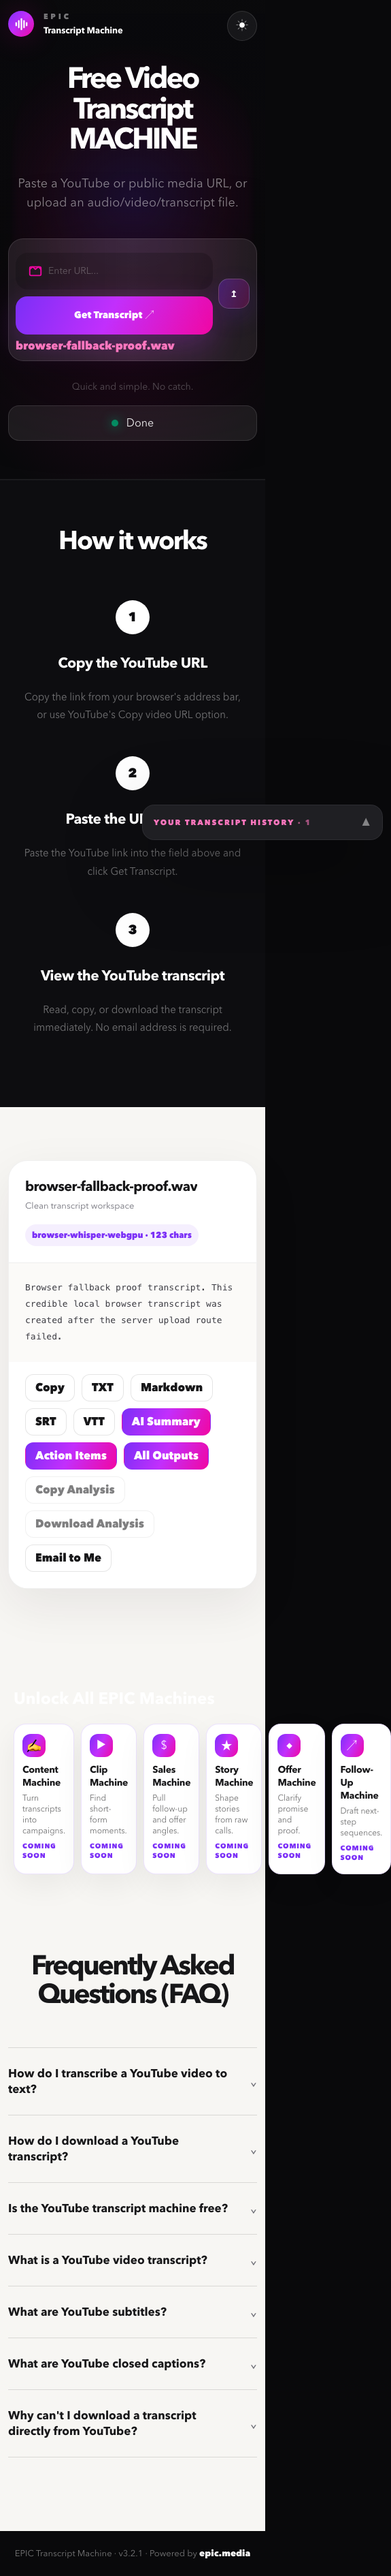
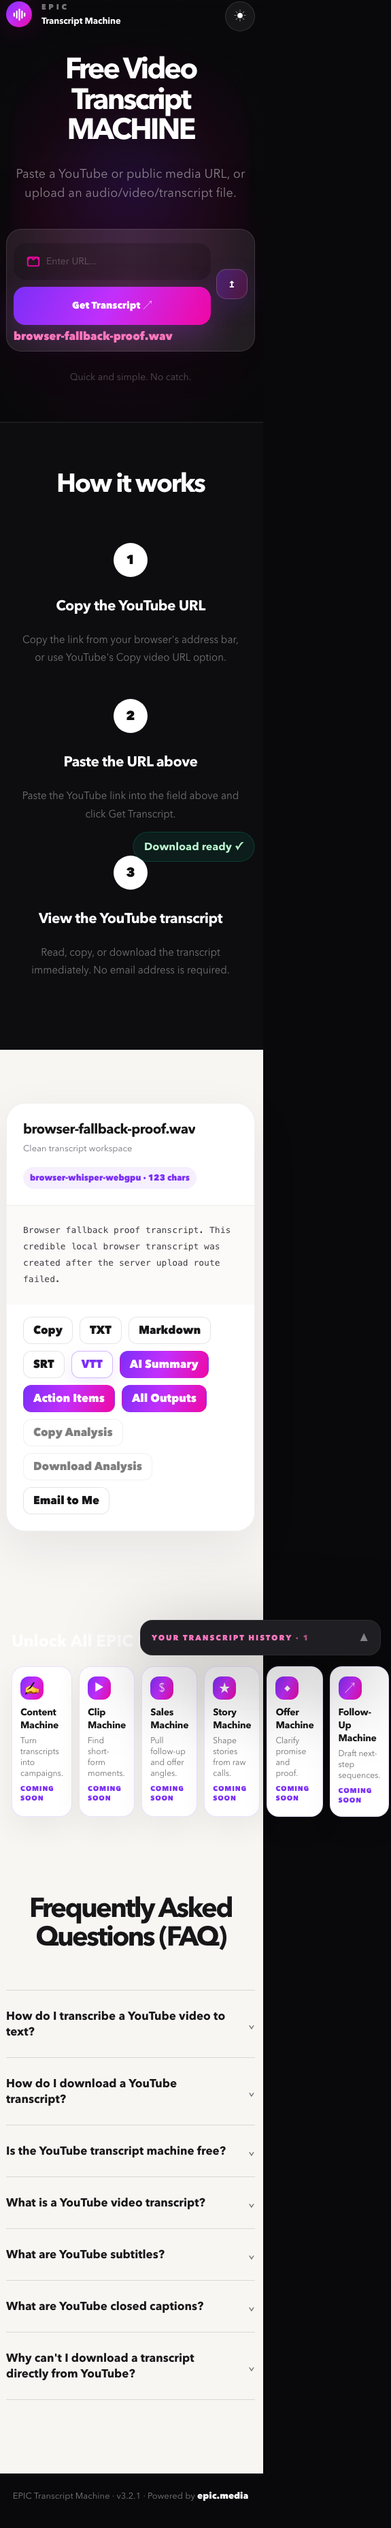
Verify browser fallback downloads

Changed region(s): [[0.0, 0.0, 1.0, 0.9916], [0.0, 0.0, 0.0887, 0.031]]

diff --git a/static/index.html b/static/index.html
@@ -540,6 +540,16 @@
     return h > 0 ? `${h}:${String(m).padStart(2,'0')}:${String(s).padStart(2,'0')}` : `${m}:${String(s).padStart(2,'0')}`;
   }
 
+  function formatSubtitleDuration(secs, decimal) {
+    secs = Math.max(0, Number(secs || 0));
+    const whole = Math.floor(secs);
+    const ms = Math.round((secs - whole) * 1000);
+    const h = Math.floor(whole / 3600);
+    const m = Math.floor((whole % 3600) / 60);
+    const s = whole % 60;
+    return `${String(h).padStart(2,'0')}:${String(m).padStart(2,'0')}:${String(s).padStart(2,'0')}${decimal}${String(ms).padStart(3,'0')}`;
+  }
+
   async function autoCopy(text) {
     if (!text) return;
     try {
@@ -720,9 +730,9 @@
       const body = format === 'md'
         ? `# ${title}\n\nMethod: ${currentRecord.method}\n\n## Transcript\n\n${currentRecord.transcript || ''}\n`
         : format === 'srt'
-          ? (currentRecord.segments || []).map((seg, i) => `${i + 1}\n${formatDuration(seg.start).padStart(5,'0')},000 --> ${formatDuration(seg.end || seg.start + 2).padStart(5,'0')},000\n${seg.text || ''}\n`).join('\n')
+          ? (currentRecord.segments || []).map((seg, i) => `${i + 1}\n${formatSubtitleDuration(seg.start, ',')} --> ${formatSubtitleDuration(seg.end || seg.start + 2, ',')}\n${seg.text || ''}\n`).join('\n')
           : format === 'vtt'
-            ? 'WEBVTT\n\n' + (currentRecord.segments || []).map((seg) => `${formatDuration(seg.start).padStart(5,'0')}.000 --> ${formatDuration(seg.end || seg.start + 2).padStart(5,'0')}.000\n${seg.text || ''}\n`).join('\n')
+            ? 'WEBVTT\n\n' + (currentRecord.segments || []).map((seg) => `${formatSubtitleDuration(seg.start, '.')} --> ${formatSubtitleDuration(seg.end || seg.start + 2, '.')}\n${seg.text || ''}\n`).join('\n')
             : (currentRecord.transcript || '');
       const blob = new Blob([body], { type: format === 'md' ? 'text/markdown' : (format === 'vtt' ? 'text/vtt' : 'text/plain') });
       const a = document.createElement('a');

diff --git a/scripts/phase2_browser_fallback_ui_smoke.py b/scripts/phase2_browser_fallback_ui_smoke.py
@@ -59,7 +59,8 @@ const fs = require('fs');
 const [url, outPath] = process.argv.slice(2);
 (async () => {
   const browser = await chromium.launch({ headless: true });
-  const page = await browser.newPage({ viewport: { width: 390, height: 844 }, isMobile: true });
+  const context = await browser.newContext({ viewport: { width: 390, height: 844 }, isMobile: true, acceptDownloads: true });
+  const page = await context.newPage();
   const network = [];
   await page.route('**/api/transcribe-upload', async route => {
     network.push(route.request().url());
@@ -102,8 +103,28 @@ const [url, outPath] = process.argv.slice(2);
       browser_fallback: true,
     };
   });
+  const downloadProof = {};
+  for (const [format, selector, marker] of [
+    ['txt', '#downloadBtn', 'Browser fallback proof transcript'],
+    ['md', '#downloadMdBtn', '# browser-fallback-proof.wav'],
+    ['srt', '#downloadSrtBtn', '1\n00:00:00,000 --> 00:00:02,000'],
+    ['vtt', '#downloadVttBtn', 'WEBVTT\n\n00:00:00.000 --> 00:00:02.000'],
+  ]) {
+    const downloadPromise = page.waitForEvent('download', { timeout: 10000 });
+    await page.click(selector);
+    const download = await downloadPromise;
+    const savePath = `/tmp/epic-browser-fallback-${format}.${format}`;
+    await download.saveAs(savePath);
+    const body = fs.readFileSync(savePath, 'utf8');
+    downloadProof[format] = {
+      suggestedFilename: download.suggestedFilename(),
+      bytes: Buffer.byteLength(body),
+      hasMarker: body.includes(marker),
+    };
+  }
+  proof.downloadProof = downloadProof;
   proof.network = network;
-  proof.viewport = await page.viewportSize();
+  proof.viewport = page.viewportSize();
   await page.screenshot({ path: outPath.replace(/\.json$/, '.png'), fullPage: true });
   await browser.close();
   fs.writeFileSync(outPath, JSON.stringify(proof, null, 2));
@@ -165,6 +186,15 @@ def main() -> None:
     require(history_count >= 1, "browser fallback was not saved to local history")
     require(history_browser_only, "history item was not marked browser-only")
     require(any("/api/transcribe-upload" in url for url in network), "upload route was not attempted before fallback")
+    raw_download_proof = browser_fallback.get("downloadProof")
+    download_proof = raw_download_proof if isinstance(raw_download_proof, dict) else {}
+    for fmt in ("txt", "md", "srt", "vtt"):
+        proof = download_proof.get(fmt) if isinstance(download_proof.get(fmt), dict) else {}
+        require(bool(proof.get("hasMarker")), f"browser-only {fmt} download missing expected marker")
+        require(int(proof.get("bytes") or 0) > 20, f"browser-only {fmt} download was too small")
+    raw_vtt_proof = download_proof.get("vtt")
+    vtt_proof = raw_vtt_proof if isinstance(raw_vtt_proof, dict) else {}
+    require(vtt_proof.get("suggestedFilename") == "epic-transcript-browser.vtt", "browser-only VTT filename mismatch")
 
     report = {"public_root": public_root_report, "browser_fallback": browser_fallback, "evidence": str(OUT)}
     OUT.write_text(json.dumps(report, indent=2), encoding="utf-8")

diff --git a/tests/test_phase2_browser_fallback_ui_smoke.py b/tests/test_phase2_browser_fallback_ui_smoke.py
@@ -12,3 +12,6 @@ def test_phase2_browser_fallback_ui_smoke_exists_and_drives_clickable_stubbed_pa
     assert "browser_fallback" in script
     assert "epicTranscriptHistory" in script
     assert "phase2-browser-fallback-ui-report.json" in script
+    assert "downloadProof" in script
+    assert "WEBVTT" in script
+    assert "epic-transcript-browser.vtt" in script

diff --git a/PROJECT_STATE.md b/PROJECT_STATE.md
@@ -1,6 +1,6 @@
 # PROJECT_STATE.md
 
-Updated: 2026-08-31 14:42 EDT
+Updated: 2026-08-31 14:58 EDT
 
 ## Current phase
 Phase 1: Bulletproof YouTube Transcripts. Active gate is production release verification and backend hardening. Latest sprint added a hosted transfer bundle so the selected persistent Docker host can receive one tarball with the seeded cache, Docker/app files, verification script, release-smoke runner, and migration guide.
@@ -26,7 +26,7 @@ Status: Release-clear on the public no-login product for the current fixture gat
 
 ### Version 2 / Phase 2: Any video or audio
 Status: Advanced, not release-complete. Hosted-container upload path now passes against a seeded persistent `/data` volume, and the public UI now has a cleaner owner-facing upload/history path with local browser transcript history, a one-click upload icon beside the URL input, and clear no-cloud-sync disclosure.
-- Browser fallback clickable proof advanced on 2026-08-31 14:42 EDT: added a localhost-only test stub guard for browser Whisper fallback plus `scripts/phase2_browser_fallback_ui_smoke.py`. The smoke script first verifies the public no-login root contains the guarded fallback wiring, then drives the actual mobile browser UI locally, forces `/api/transcribe-upload` to fail, uploads a WAV candidate, confirms the fallback renders a `browser-whisper-webgpu`/WASM browser-only transcript, saves it to `epicTranscriptHistory`, and captures evidence at `evidence/phase2-browser-fallback-ui-report.json` plus `.png`. Public production root verified HTTP 200 with guarded markers; Netlify stable and immutable deploy `https://6a95cae308ff4f121e6d3827--epic-transcript-machine-review.netlify.app/` verified HTTP 200 with the same fallback markers and production API base.
+- Browser fallback clickable proof advanced again on 2026-08-31 14:58 EDT: the Phase 2 browser fallback smoke now verifies local browser-only downloads, not just rendered output. The proof drives the mobile UI locally, forces `/api/transcribe-upload` to fail, uploads a WAV candidate, renders a `browser-whisper-webgpu` browser-only transcript, saves it to `epicTranscriptHistory`, clicks TXT/Markdown/SRT/VTT download buttons, and verifies downloaded file names/markers, including `epic-transcript-browser.vtt` with `WEBVTT` and full `00:00:00.000 --> 00:00:02.000` timestamps. Public production root and Netlify review both returned HTTP 200 with the hardened subtitle formatter and fallback markers. Immutable Netlify deploy: `https://6a95ceab31812a30a3191b50--epic-transcript-machine-review.netlify.app/`.
 - Browser fallback wiring advanced on 2026-08-31 14:25 EDT: the prior hidden marker is now an actual failed-upload recovery path. If the server upload route fails for supported audio/video files, the public UI attempts private in-browser Whisper through `@xenova/transformers@2.17.2`, labels the method as `browser-whisper-webgpu` or `browser-whisper-wasm`, renders a browser-only transcript record, stores it in local browser history, and enables local TXT/Markdown/SRT/VTT downloads without adding visible clutter back to the hero. Public production and Netlify review both verified with `3.2.1`, `transcribeInBrowser(file)`, `Server upload failed, trying private browser transcription`, `Xenova/whisper-tiny.en`, `browser-whisper-webgpu`, `browser-whisper-wasm`, and no visible old fallback wording. Immutable Netlify deploy: `https://6a95c6ef4bcd59c584c116de--epic-transcript-machine-review.netlify.app/`.
 - Public owner-UX sprint from 2026-08-31 12:51 EDT: the public production URL, stable Netlify review URL, and immutable Netlify deploy `https://6a95b112692fe0f07390daf5--epic-transcript-machine-review.netlify.app/` returned HTTP 200 with `Your Transcript History`, `Unlock All EPIC Machines`, `placeholder="Enter URL..."`, `uploadBtn`, release version footer, `https://epic.media`, production API base on Netlify, and no old `drop-zone` marker. Local history stores recent transcripts in `epicTranscriptHistory`, lets users clear/delete local history, and keeps server recent readback as a fallback.
 - Local Whisper upload path exists and previous local evidence covered MP3, M4A, MP4, and direct public-media-style URL.
@@ -234,6 +234,9 @@ Prior full regression evidence:
 - Design regression tests: passed for Call IQ tokens, hero control placement, dark presentation surface, and light results workspace.
 - Public TXT/Markdown/SRT downloads for regression record: passed in prior release-gate evidence.
 
+
+- Browser-only subtitle/download proof advanced on 2026-08-31 14:58 EDT: `scripts/phase2_browser_fallback_ui_smoke.py https://epic-transcript.robyncrane.com` passed after a failing-first test. Download proof: TXT 123 bytes, Markdown 201 bytes, SRT 156 bytes, VTT 162 bytes, all markers present; VTT suggested filename `epic-transcript-browser.vtt`. Full suite passed with 62 tests. Public Phase 1 health passed, Phase 2 release gate passed, and Phase 3 UI contract passed. Netlify review deploy `6a95ceab31812a30a3191b50` verified stable and immutable URLs HTTP 200 with fallback markers and production API base.
+
 ## Known problems
 - The public hostname now has launchd KeepAlive hardening, but it still depends on this iMac and Cloudflare Tunnel. A hosted durable backend remains the cleaner whole-project final release path.
 - A fresh empty hosted `/data` volume is not enough for release parity under current YouTube/IP conditions. The cold container passed non-English, control via Whisper, upload, and analysis paths, but failed the regression and Shorts fixtures when captions/audio were blocked. Staging cutover must seed the existing SQLite transcript cache into the persistent volume first, then verify the matrix.
@@ -249,7 +252,7 @@ Prior full regression evidence:
 - Phase 3 full provider-backed intelligence is blocked on a free/no-surprise LLM/provider decision. Owner: Trevor or Len. Fallback path remains deterministic timestamp-grounded outputs, now improved and publicly quality-smoked.
 
 ## Exact next action
-Run an end-to-end browser-local Whisper execution smoke by forcing `/api/transcribe-upload` to fail in Playwright and uploading a tiny generated audio file, then confirm a browser-only transcript renders and local VTT/TXT downloads work. In parallel, copy `evidence/hosted-staging-transfer-bundle.tar.gz` to the selected persistent Docker host, extract it, run `python3 scripts/hosted_staging_verify.py evidence/hosted-staging-seed.tar.gz --extract-to <persistent-data-dir>`, build/run the container against that seeded volume, then run `python3 scripts/hosted_staging_smoke.py http://<staging-host> --out evidence/hosted-staging-smoke-report.json`.
+Continue the remaining Phase 2 full-model browser fallback lane by attempting one non-stub browser Whisper model execution on a tiny generated audio file with the server upload route forced to fail. In parallel, copy `evidence/hosted-staging-transfer-bundle.tar.gz` to the selected persistent Docker host, extract it, run `python3 scripts/hosted_staging_verify.py evidence/hosted-staging-seed.tar.gz --extract-to <persistent-data-dir>`, build/run the container against that seeded volume, then run `python3 scripts/hosted_staging_smoke.py http://<staging-host> --out evidence/hosted-staging-smoke-report.json`.
 
 ### 2026-08-31 non-English YouTube gate update
 - PASS: Fresh uncached exact fixture `https://www.youtube.com/watch?v=vgIle-XrvQI` completed through the new bounded async public route. Start request returned HTTP 202 in 0.08s, polling stayed under 0.1s per request, and final record returned French metadata `language=fr`, `method=local-whisper`, `cache_hit=false`, 31 segments, 228 words, duration 95s.

diff --git a/ACCEPTANCE_TESTS.md b/ACCEPTANCE_TESTS.md
@@ -62,6 +62,13 @@ Credible ending:
 `...hope you enjoyed this and I hope you got value from it. Look forward to seeing you soon.`
 
 ### Fresh production health evidence
+Run time: 2026-08-31 14:58 EDT.
+
+- Browser fallback local-download proof: PASS. After a failing-first regression, `scripts/phase2_browser_fallback_ui_smoke.py` now clicks and verifies local browser-only TXT, Markdown, SRT, and VTT downloads from the failed-upload browser fallback path. Public root returned HTTP 200 with fallback wiring and guarded localhost stub markers. Mobile Playwright proof forced `/api/transcribe-upload` to HTTP 503, rendered `browser-whisper-webgpu · 123 chars`, saved one `browser_only` local-history record, then verified download markers: TXT 123 bytes, Markdown 201 bytes, SRT 156 bytes, VTT 162 bytes, suggested VTT filename `epic-transcript-browser.vtt`, and `WEBVTT` with full timestamp format. Evidence saved at `evidence/phase2-browser-fallback-ui-report.json` plus `.png`.
+- Browser-only subtitle formatting: PASS. Static browser-only SRT/VTT downloads now use full `HH:MM:SS,mmm` and `HH:MM:SS.mmm` timestamps through `formatSubtitleDuration`.
+- Netlify review deploy: PASS. Site `epic-transcript-machine-review`, deploy `6a95ceab31812a30a3191b50`; stable URL and immutable deploy both returned HTTP 200 with `formatSubtitleDuration`, fallback guard markers, `Get Transcript`, and production API base.
+- Regression suite and public smokes: PASS. `./.venv/bin/python -m pytest -q` returned 62 passed; inline static JavaScript `node --check` passed; Phase 1 health passed; Phase 2 release gate returned `all_ok=true`; Phase 3 UI contract passed with combined analysis 16 outputs / 40,077 chars and Markdown download HTTP 200 / 41,227 bytes.
+
 Run time: 2026-08-31 14:42 EDT.
 
 - Browser fallback clickable UI proof: PASS for guarded production wiring and mobile fallback flow. Added failing-first regression for `scripts/phase2_browser_fallback_ui_smoke.py`, added a localhost-only `window.__EPIC_BROWSER_WHISPER_TEST_STUB` guard, then ran the smoke script. Public no-login root returned HTTP 200 with guarded fallback markers: `window.__EPIC_BROWSER_WHISPER_TEST_STUB`, `Browser fallback test stub is not active`, `Server upload failed, trying private browser transcription`, `Xenova/whisper-tiny.en`, and `epicTranscriptHistory`. The browser proof drove a 390x844 mobile Playwright page, forced `/api/transcribe-upload` to HTTP 503, uploaded a WAV candidate, rendered a browser-only transcript with method `browser-whisper-webgpu · 123 chars`, saved one `browser_only` local-history item, and captured evidence at `evidence/phase2-browser-fallback-ui-report.json` plus `.png`.
@@ -185,6 +192,7 @@ Status: bounded scripted matrix and two-hour/long-video transcription passing in
 ## Phase 2 release gate: Any video or audio
 
 Current implementation evidence:
+- 2026-08-31 14:58 EDT: browser-local fallback proof now includes local browser-only TXT/Markdown/SRT/VTT download verification and full SRT/VTT timestamp formatting. Stubbed full-model path still uses the guarded localhost proof harness; non-stub downloaded-model execution remains OPEN.
 - 2026-08-31 14:25 EDT: browser-local fallback moved from marker-only to shipped failed-upload recovery wiring. Public root, stable Netlify review, and immutable deploy `6a95c6ef4bcd59c584c116de` verified `3.2.1`, `transcribeInBrowser(file)`, `Server upload failed, trying private browser transcription`, `Xenova/whisper-tiny.en`, `browser-whisper-webgpu`, and `browser-whisper-wasm`; visible fallback clutter remains absent. Full real-browser downloaded-model transcription proof is still OPEN and is the next Phase 2 action.
 - 2026-08-31 11:58 EDT: direct/social URL matrix is now covered by `scripts/phase2_url_matrix_smoke.py`. PASS public evidence: direct public MP3 URL returned HTTP 200 `audio/mpeg` and completed through async `/api/transcribe-url-job` as `local-whisper`; TikTok, Instagram, Facebook, and X/Twitter sample links each returned helpful platform-specific HTTP 422 upload guidance instead of a dead-end. Evidence saved to `evidence/phase2-url-matrix-report.json`.
 - 2026-08-31 11:58 EDT: browser-only fallback first moved from OPEN to marker-level implementation/disclosure, then was superseded by the 14:25 EDT shipped failed-upload recovery wiring above. Real-browser model execution proof remains a Phase 2 polish item.
